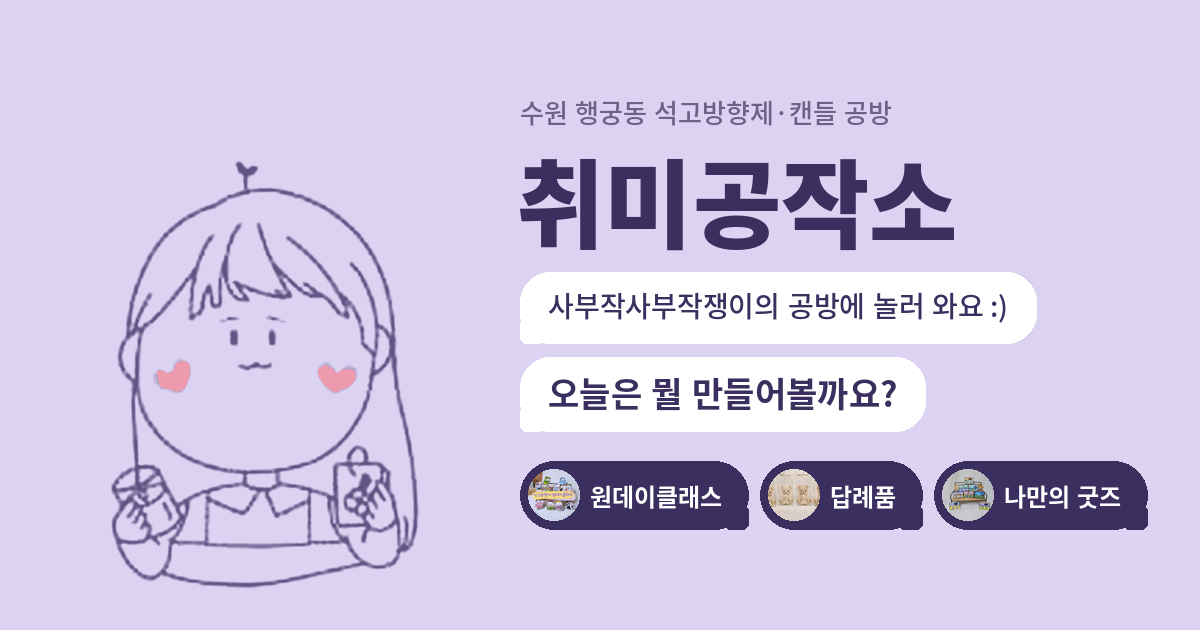
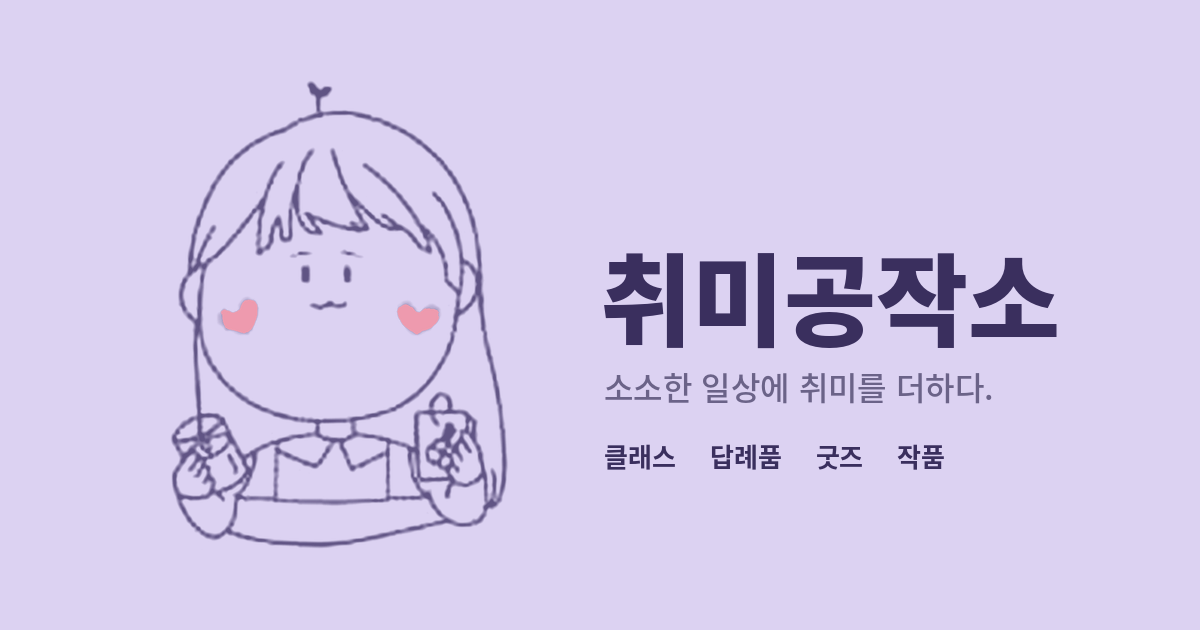
Add files via upload

Changed region(s): [[0.0925, 0.1206, 0.9558, 0.9349], [0.4317, 0.1508, 0.74, 0.2111], [0.3392, 0.2111, 0.37, 0.2714]]

diff --git a/index.html b/index.html
@@ -22,7 +22,7 @@
   <link rel="preconnect" href="https://cdn.jsdelivr.net" crossorigin>
   <link rel="stylesheet"
     href="https://cdn.jsdelivr.net/gh/orioncactus/pretendard@v1.3.9/dist/web/variable/pretendardvariable-dynamic-subset.min.css">
-  <link rel="stylesheet" href="style.css?v=7">
+  <link rel="stylesheet" href="style.css?v=8">
 </head>
 
 <body class="is-home">
@@ -77,7 +77,7 @@
 
     <section class="view" data-view="works" hidden aria-labelledby="works-title">
       <div class="page">
-        <h2 class="page__title" id="works-title">작업</h2>
+        <h2 class="page__title" id="works-title">작업물</h2>
         <div class="filters" role="tablist" aria-label="작업 분류">
           <a class="filters__item" href="#works" data-filter="all">전체</a>
           <a class="filters__item" href="#works/gift" data-filter="gift">답례품</a>
@@ -283,7 +283,7 @@
   </dialog>
 
   <script src="config.js?v=1"></script>
-  <script src="main.js?v=9"></script>
+  <script src="main.js?v=10"></script>
 </body>
 
 </html>

diff --git a/main.js b/main.js
@@ -236,17 +236,3 @@ if (home && paintLayer && canPaint) {
     paintLayer.appendChild(dab);
   });
 }
-
-if (localStorage.getItem('hobbyAdmin') === '1') {
-  const side = document.querySelector('.top__side');
-  const inHeader = document.createElement('a');
-  inHeader.className = 'admin-return';
-  inHeader.href = 'admin.html';
-  inHeader.textContent = '관리자';
-  if (side) side.prepend(inHeader);
-  const onHome = document.createElement('a');
-  onHome.className = 'admin-return admin-return--home';
-  onHome.href = 'admin.html';
-  onHome.textContent = '관리자';
-  document.querySelector('.view--home').appendChild(onHome);
-}

diff --git a/style.css b/style.css
@@ -479,7 +479,7 @@ body.is-home .bar {
 }
 
 .detail__points li::before {
-  content: "— ";
+  content: "· ";
 }
 
 .detail__text .cta {
@@ -615,20 +615,6 @@ body.is-home .bar {
 
 body:not(.is-home) {
   padding-bottom: calc(64px + env(safe-area-inset-bottom, 0px));
-}
-
-.admin-return {
-  font-size: 0.8125rem;
-  font-weight: 600;
-  text-decoration: underline;
-  text-underline-offset: 4px;
-}
-
-.admin-return--home {
-  position: fixed;
-  top: calc(14px + env(safe-area-inset-top, 0px));
-  right: 14px;
-  z-index: 70;
 }
 
 .more-link {

diff --git a/admin.js b/admin.js
@@ -273,8 +273,7 @@ deleteBtn.addEventListener('click', async () => {
 });
 
 onAuthStateChanged(auth, (user) => {
-  if (user) localStorage.setItem('hobbyAdmin', '1');
-  else localStorage.removeItem('hobbyAdmin');
+  localStorage.removeItem('hobbyAdmin');
   loginView.hidden = Boolean(user);
   appView.hidden = !user;
   if (user) loadWorks();

diff --git a/admin.html b/admin.html
@@ -88,7 +88,7 @@
   </dialog>
 
   <script src="config.js?v=2"></script>
-  <script type="module" src="admin.js?v=4"></script>
+  <script type="module" src="admin.js?v=5"></script>
 </body>
 
 </html>
